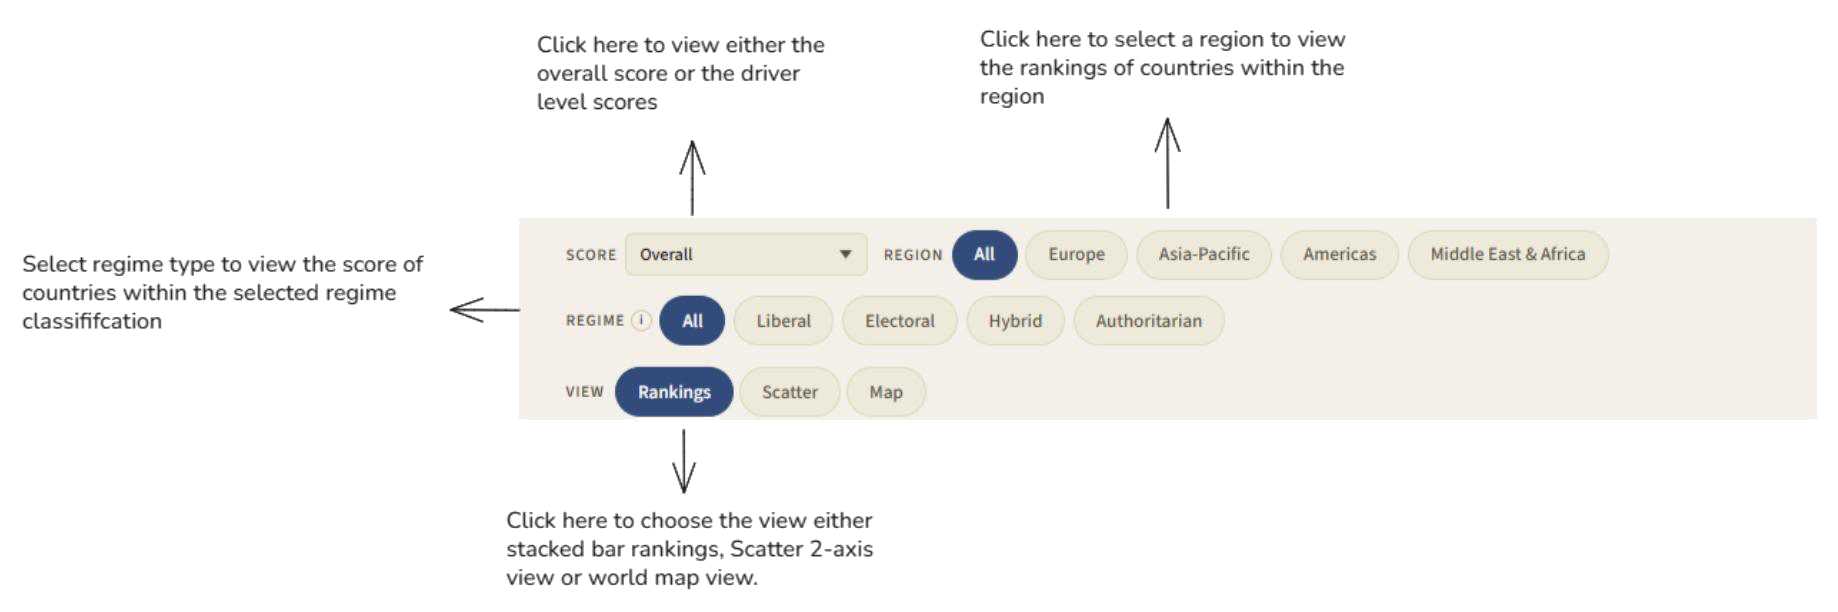
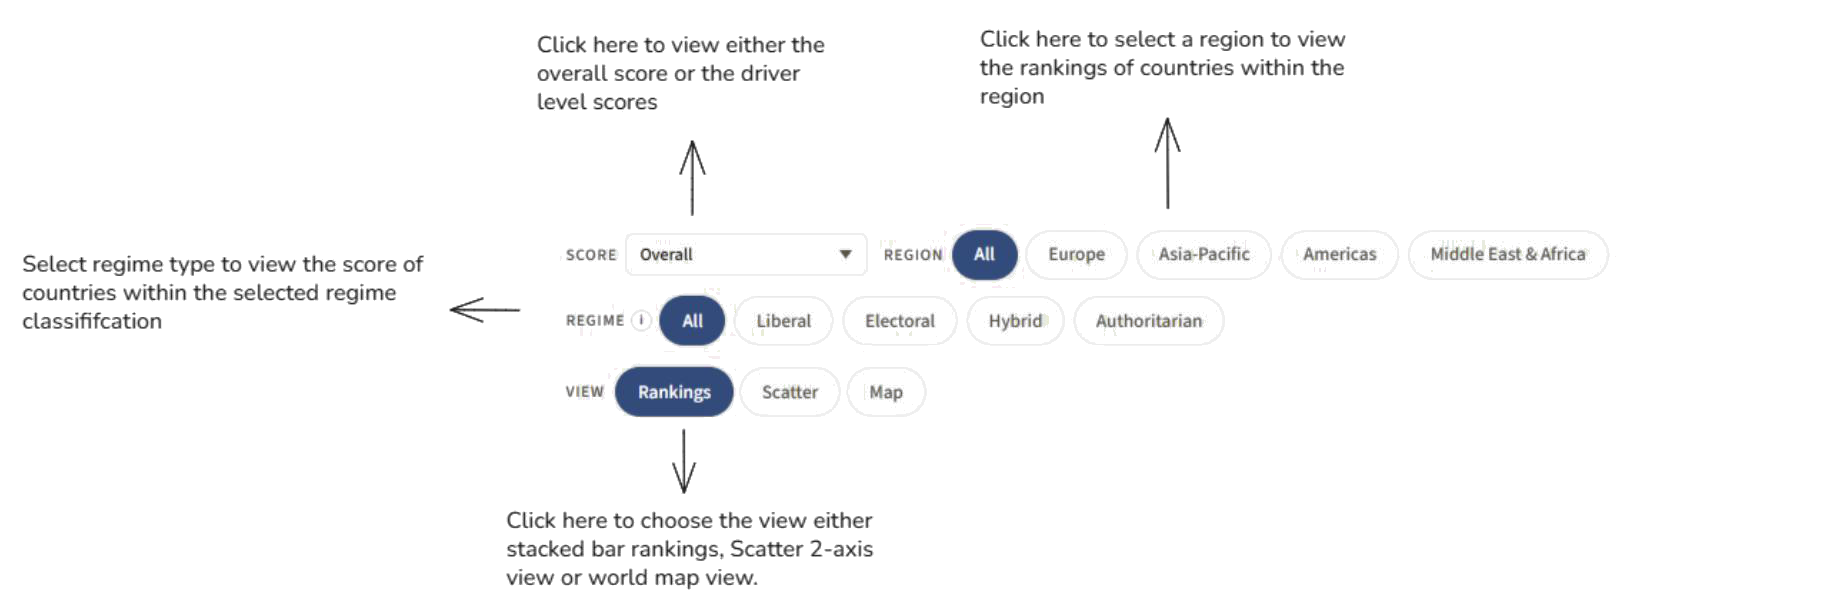
Switch site background from eggshell to white
Replace the warm cream palette with a neutral one: page background is now
pure white, cards #F5F5F5, overlays #EAEAEA, and the gold-tinted borders and
shadows become neutral greys. Chart furniture that was tuned to the cream
backdrop (gridlines, axis lines, map no-data fills, dimmed labels, the
choropleth ramp start) is neutralised to match. Brand and driver colours
are unchanged.

Figures 0-4 are recoloured the same way so the embedded screenshots sit on
white instead of eggshell.

Changed region(s): [[0.3101, 0.3415, 0.8993, 0.683], [0.5272, 0.3415, 0.5582, 0.3725], [0.3101, 0.6209, 0.3411, 0.652]]

diff --git a/src/components/views/MapView.jsx b/src/components/views/MapView.jsx
@@ -33,12 +33,12 @@ const NAME_TO_ISO3 = {
 const countryMap = Object.fromEntries(allCountries.map(c => [c.iso3, c]));
 
 function getScoreColour(score, scoreKey) {
-  if (score === undefined || score === null) return '#E0D9C8';
+  if (score === undefined || score === null) return '#E0E0E0';
   const t = score / 100;
-  // Interpolate from cream (#F5F0E8) to CORDA navy (#2B4C7E)
-  const r = Math.round(245 + (43 - 245) * t);
-  const g = Math.round(240 + (76 - 240) * t);
-  const b = Math.round(232 + (126 - 232) * t);
+  // Interpolate from white (#FFFFFF) to CORDA navy (#2B4C7E)
+  const r = Math.round(255 + (43 - 255) * t);
+  const g = Math.round(255 + (76 - 255) * t);
+  const b = Math.round(255 + (126 - 255) * t);
   return `rgb(${r},${g},${b})`;
 }
 
@@ -115,8 +115,8 @@ export default function MapView({ filters, setFilters, pinnedCountry, setPinnedC
                         const score = country ? country[scoreKey] : undefined;
                         const filtered = country ? isFiltered(country) : false;
                         const fill = country
-                          ? (filtered ? getScoreColour(score) : '#D4CAAF')
-                          : '#E0D9C8';
+                          ? (filtered ? getScoreColour(score) : '#D4D4D4')
+                          : '#E0E0E0';
                         const isPinned = pinnedCountry && country?.iso3 === pinnedCountry.iso3;
                         const isHovered = hoveredCountry && country?.iso3 === hoveredCountry.iso3;
 
@@ -125,7 +125,7 @@ export default function MapView({ filters, setFilters, pinnedCountry, setPinnedC
                             key={geo.rsmKey}
                             geography={geo}
                             fill={fill}
-                            stroke={isPinned || isHovered ? '#8B6914' : '#D4CAAF'}
+                            stroke={isPinned || isHovered ? '#8B6914' : '#D4D4D4'}
                             strokeWidth={isPinned || isHovered ? 1.5 : 0.5}
                             style={{
                               default: { outline: 'none', transition: 'fill 0.2s' },
@@ -177,7 +177,7 @@ export default function MapView({ filters, setFilters, pinnedCountry, setPinnedC
                 flex: 1,
                 height: 14,
                 borderRadius: 7,
-                background: 'linear-gradient(to right, #F5F0E8, #2B4C7E)',
+                background: 'linear-gradient(to right, #FFFFFF, #2B4C7E)',
                 border: '1px solid var(--colour-border)',
                 position: 'relative',
               }}>

diff --git a/src/components/views/RankingsView.jsx b/src/components/views/RankingsView.jsx
@@ -117,7 +117,7 @@ export default function RankingsView({ filters, setFilters, pinnedCountry, setPi
                   }
                 }}
               >
-                <CartesianGrid strokeDasharray="3 3" horizontal={false} stroke="#D4CAAF" />
+                <CartesianGrid strokeDasharray="3 3" horizontal={false} stroke="#D4D4D4" />
                 <XAxis
                   type="number"
                   domain={[0, 100]}
@@ -128,7 +128,7 @@ export default function RankingsView({ filters, setFilters, pinnedCountry, setPi
                     fill: '#5A5448',
                   }}
                   tickLine={false}
-                  axisLine={{ stroke: '#D4CAAF' }}
+                  axisLine={{ stroke: '#D4D4D4' }}
                 />
                 <YAxis
                   type="category"
@@ -147,7 +147,7 @@ export default function RankingsView({ filters, setFilters, pinnedCountry, setPi
                         dominantBaseline="middle"
                         fontFamily="'Source Sans 3', system-ui, sans-serif"
                         fontSize={labelFontSize}
-                        fill={filtered ? (isHighlighted ? '#2B4C7E' : '#1A1A1A') : '#C0B89A'}
+                        fill={filtered ? (isHighlighted ? '#2B4C7E' : '#1A1A1A') : '#BDBDBD'}
                         fontWeight={isHighlighted ? 700 : 400}
                       >
                         {label}
@@ -203,7 +203,7 @@ export default function RankingsView({ filters, setFilters, pinnedCountry, setPi
                                 fontFamily="'Source Sans 3', system-ui, sans-serif"
                                 fontSize={11}
                                 fontWeight={600}
-                                fill={filtered ? '#1A1A1A' : '#C0B89A'}
+                                fill={filtered ? '#1A1A1A' : '#BDBDBD'}
                               >
                                 {country.corda.toFixed(1)}
                               </text>
@@ -248,7 +248,7 @@ export default function RankingsView({ filters, setFilters, pinnedCountry, setPi
                             fontFamily="'Source Sans 3', system-ui, sans-serif"
                             fontSize={11}
                             fontWeight={600}
-                            fill={filtered ? '#1A1A1A' : '#C0B89A'}
+                            fill={filtered ? '#1A1A1A' : '#BDBDBD'}
                           >
                             {(+value).toFixed(1)}
                           </text>

diff --git a/src/components/views/ScatterView.jsx b/src/components/views/ScatterView.jsx
@@ -212,7 +212,7 @@ export default function ScatterView({ filters, setFilters, pinnedCountry, setPin
                 margin={{ top: 20, right: 30, bottom: 40, left: 40 }}
                 onClick={handleClick}
               >
-                <CartesianGrid stroke="#D4CAAF" strokeDasharray="3 3" />
+                <CartesianGrid stroke="#D4D4D4" strokeDasharray="3 3" />
                 <XAxis
                   type="number"
                   dataKey="x"
@@ -223,7 +223,7 @@ export default function ScatterView({ filters, setFilters, pinnedCountry, setPin
                     fontSize: 11,
                     fill: '#5A5448',
                   }}
-                  axisLine={{ stroke: '#D4CAAF' }}
+                  axisLine={{ stroke: '#D4D4D4' }}
                   tickLine={false}
                 >
                   <Label
@@ -248,7 +248,7 @@ export default function ScatterView({ filters, setFilters, pinnedCountry, setPin
                     fontSize: 11,
                     fill: '#5A5448',
                   }}
-                  axisLine={{ stroke: '#D4CAAF' }}
+                  axisLine={{ stroke: '#D4D4D4' }}
                   tickLine={false}
                 >
                   <Label
@@ -268,13 +268,13 @@ export default function ScatterView({ filters, setFilters, pinnedCountry, setPin
                 {/* Midpoint reference lines */}
                 <ReferenceLine
                   x={50}
-                  stroke="#A89E7E"
+                  stroke="#A3A3A3"
                   strokeDasharray="5 3"
                   strokeWidth={1}
                 />
                 <ReferenceLine
                   y={50}
-                  stroke="#A89E7E"
+                  stroke="#A3A3A3"
                   strokeDasharray="5 3"
                   strokeWidth={1}
                 />

diff --git a/src/components/views/RadarView.jsx b/src/components/views/RadarView.jsx
@@ -80,7 +80,7 @@ function SingleRadar({ country, showMean = true, fillColour = '#2B4C7E', opacity
 
       <ResponsiveContainer width="100%" height={220}>
         <RadarChart data={data} margin={{ top: 8, right: 20, bottom: 8, left: 20 }}>
-          <PolarGrid stroke="#D4CAAF" />
+          <PolarGrid stroke="#D4D4D4" />
           <PolarAngleAxis
             dataKey="subject"
             tick={{
@@ -101,8 +101,8 @@ function SingleRadar({ country, showMean = true, fillColour = '#2B4C7E', opacity
               name="Global Mean"
               dataKey="value"
               data={meanData}
-              stroke="#C0B89A"
-              fill="#C0B89A"
+              stroke="#BDBDBD"
+              fill="#BDBDBD"
               fillOpacity={0.15}
               strokeDasharray="4 2"
             />
@@ -132,7 +132,7 @@ function SingleRadar({ country, showMean = true, fillColour = '#2B4C7E', opacity
         <div style={{
           marginTop: 8,
           padding: '8px 10px',
-          background: '#FFF8E7',
+          background: '#F5F5F5',
           border: '1px solid var(--colour-accent-2)',
           borderRadius: 4,
           fontSize: 11,
@@ -177,7 +177,7 @@ function DefaultOverlayRadar() {
 
       <ResponsiveContainer width="100%" height={320}>
         <RadarChart data={denmarkData} margin={{ top: 10, right: 30, bottom: 10, left: 30 }}>
-          <PolarGrid stroke="#D4CAAF" />
+          <PolarGrid stroke="#D4D4D4" />
           <PolarAngleAxis
             dataKey="subject"
             tick={{

diff --git a/src/styles/variables.css b/src/styles/variables.css
@@ -1,8 +1,8 @@
 :root {
   /* Background */
-  --colour-bg:          #F5F0E8;
-  --colour-bg-card:     #EFEAD9;
-  --colour-bg-overlay:  #E8E1CE;
+  --colour-bg:          #FFFFFF;
+  --colour-bg-card:     #F5F5F5;
+  --colour-bg-overlay:  #EAEAEA;
 
   /* Text */
   --colour-text:        #1A1A1A;
@@ -28,9 +28,9 @@
   --colour-authoritarian: #E15759;
 
   /* UI */
-  --colour-border:        rgba(139, 110, 20, 0.15);
-  --colour-border-strong: rgba(139, 110, 20, 0.30);
-  --colour-shadow:        rgba(43, 76, 126, 0.04);
+  --colour-border:        rgba(0, 0, 0, 0.10);
+  --colour-border-strong: rgba(0, 0, 0, 0.18);
+  --colour-shadow:        rgba(0, 0, 0, 0.04);
 
   /* Region colours */
   --colour-region-europe: #4E79A7;
